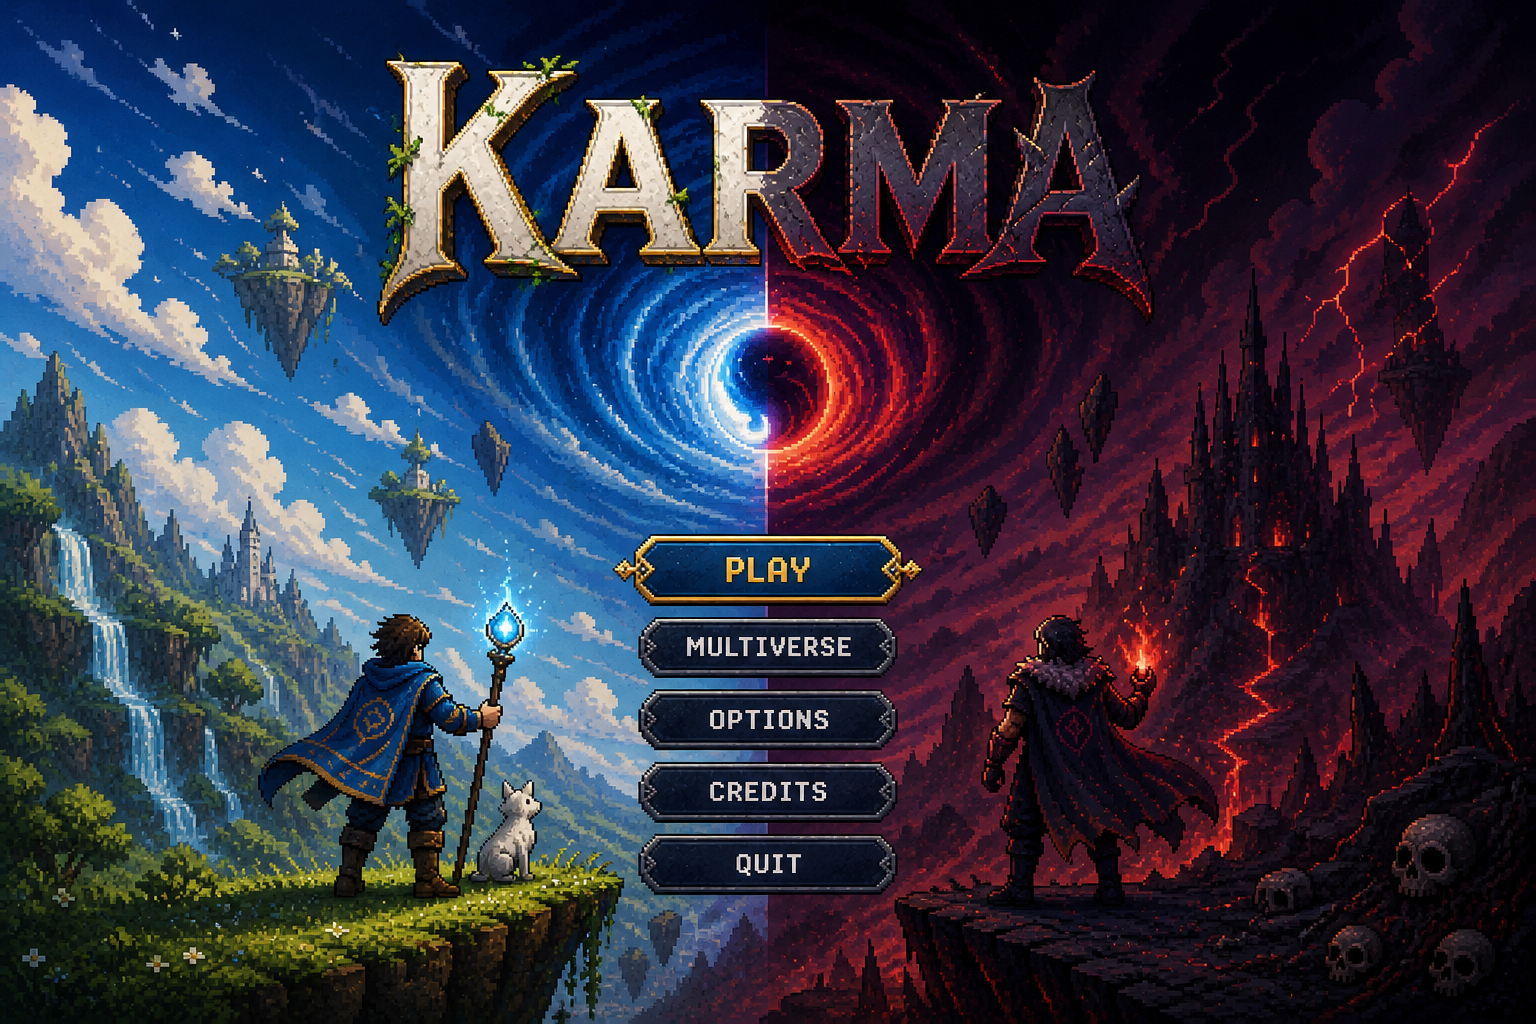
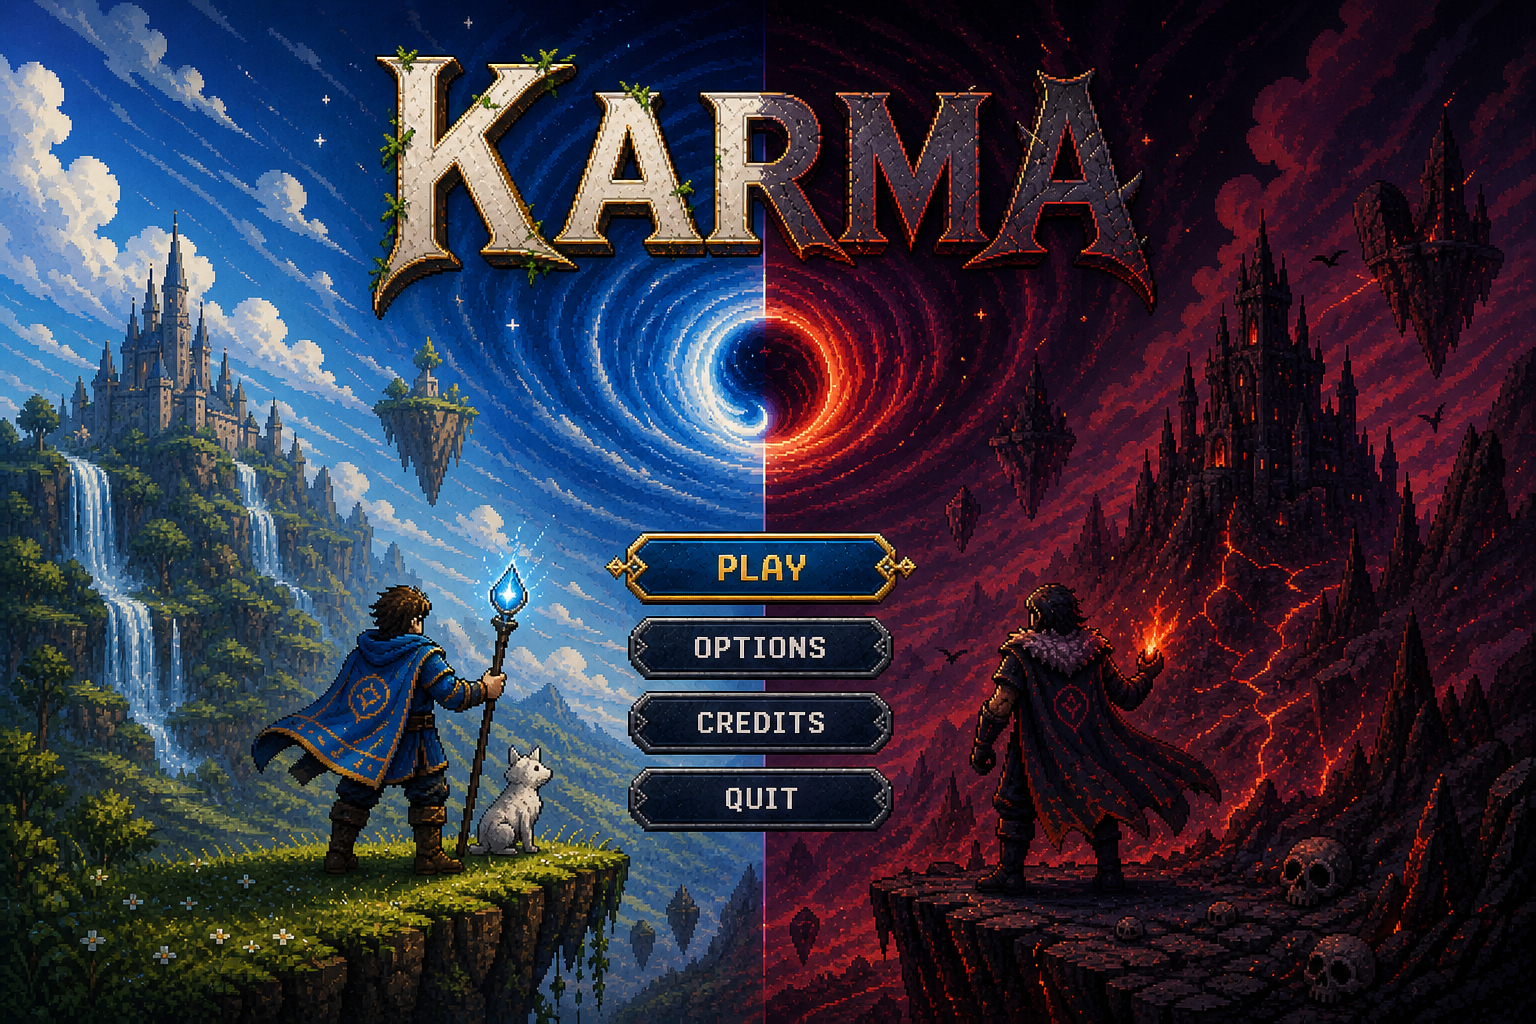
fix(menu): retune button rects for new 4-button splash + drop cover
User regenerated assets/art/main_menu/karma_menu_mockup.png without
the MULTIVERSE button — splash now ships with PLAY / OPTIONS /
CREDITS / QUIT only, stacked closer (~10% center-to-center, 8%
tall).

- ButtonLayout retargeted to the new vertical positions:
    PLAY    50.0%
    OPTIONS 60.5%
    CREDITS 70.8%
    QUIT    80.4%
  Height bumped 7.2% → 8.2% so the click rect fully overlaps the
  larger painted buttons.
- Dropped BuildPaintedMultiverseCover() + PaintedMultiverseBounds —
  the veil over the formerly-painted MULTIVERSE button is no longer
  needed now that the artwork itself omits it.

diff --git a/scripts/UI/MainMenuController.cs b/scripts/UI/MainMenuController.cs
@@ -28,21 +28,16 @@ public partial class MainMenuController : Control
     // (left, top, right, bottom) in 0..1 over the image bounds. Tuned
     // by eye to overlap the painted buttons. Adjust if the splash
     // re-renders or moves the buttons.
+    // Tuned for the 4-button splash variant of karma_menu_mockup.png
+    // (1536×1024, MULTIVERSE removed). Buttons are stacked closer than
+    // the 5-button version: ~10% center-to-center, 8% tall.
     private static readonly (string Id, string Label, Rect2 Bounds)[] ButtonLayout =
     {
-        ("play",    "PLAY",    new Rect2(0.39f, 0.495f, 0.22f, 0.072f)),
-        // MULTIVERSE removed — the painted button still appears in the
-        // splash but is non-interactive. A blocker rect (see
-        // BuildPaintedMultiverseCover) softly dims the painted artwork
-        // so it reads as decorative rather than clickable.
-        ("options", "OPTIONS", new Rect2(0.39f, 0.650f, 0.22f, 0.072f)),
-        ("credits", "CREDITS", new Rect2(0.39f, 0.728f, 0.22f, 0.072f)),
-        ("quit",    "QUIT",    new Rect2(0.39f, 0.806f, 0.22f, 0.072f))
+        ("play",    "PLAY",    new Rect2(0.39f, 0.500f, 0.22f, 0.082f)),
+        ("options", "OPTIONS", new Rect2(0.39f, 0.605f, 0.22f, 0.082f)),
+        ("credits", "CREDITS", new Rect2(0.39f, 0.708f, 0.22f, 0.082f)),
+        ("quit",    "QUIT",    new Rect2(0.39f, 0.804f, 0.22f, 0.082f))
     };
-
-    // Bounds of the painted MULTIVERSE button. Used by
-    // BuildPaintedMultiverseCover to dim out the leftover artwork.
-    private static readonly Rect2 PaintedMultiverseBounds = new(0.37f, 0.572f, 0.26f, 0.072f);
 
     // Title shimmer rect (over the painted "KARMA" letters).
     private static readonly Rect2 TitleRect = new(0.20f, 0.04f, 0.60f, 0.21f);
@@ -309,8 +304,6 @@ public partial class MainMenuController : Control
     {
         if (_stageFrame is null) return;
 
-        BuildPaintedMultiverseCover();
-
         var transparent = new StyleBoxEmpty();
         var pillTexture = MakePillGlow(256, 80, softness: 1.4f);
         foreach (var (id, label, bounds) in ButtonLayout)
@@ -372,22 +365,6 @@ public partial class MainMenuController : Control
         _buttons["options"].Pressed += ShowOptions;
         _buttons["credits"].Pressed += ShowCredits;
         _buttons["quit"].Pressed += QuitGame;
-    }
-
-    // The MULTIVERSE button is painted into the splash but no longer
-    // wired. Drop a soft dark veil over the painted area so it reads
-    // as decorative / disabled rather than something the player should
-    // try to click.
-    private void BuildPaintedMultiverseCover()
-    {
-        var veil = new ColorRect
-        {
-            Name = "PaintedMultiverseVeil",
-            Color = new Color(0, 0, 0, 0.55f),
-            MouseFilter = MouseFilterEnum.Ignore
-        };
-        AnchorRect(veil, PaintedMultiverseBounds);
-        _stageFrame.AddChild(veil);
     }
 
     private static Color GlowTint(string buttonId) => buttonId switch
